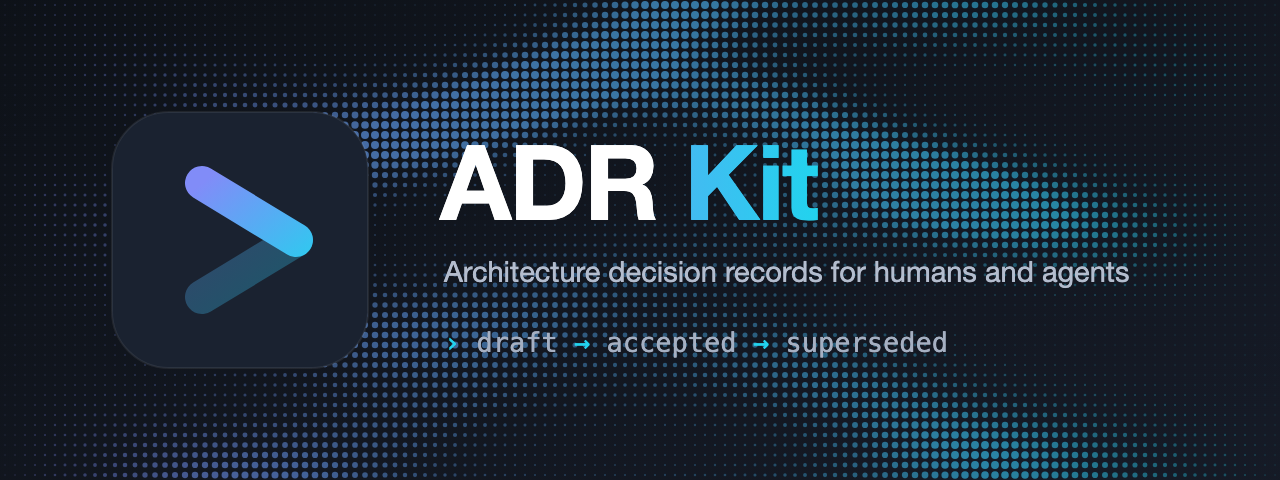
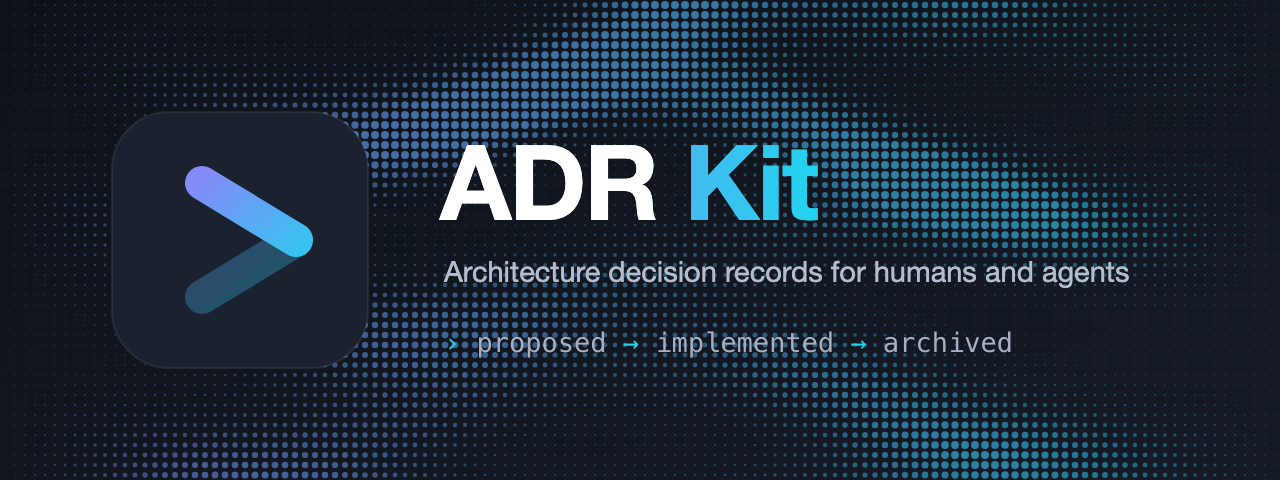
fix: repair co-design surfaces the four-folder rename left stale
The four-folder rename updated the core mirrors but left several coupled
surfaces stale:

- adr/config.yaml stamped installed-with 0.13.0, so every `adrkit list`
  printed an upgrade notice; regenerated with `adrkit update`, which also
  refreshed the gitignored .agents/ copy of the validate skill.
- openspec/config.yaml's archive guidance still said `adrkit decide`.
- adr/implemented/12 called active records "accepted"; 14 still showed the
  old adr/decisions/ path.
- the site advertised 10 workflow skills (now 11).
- the README and social banners rendered "draft -> accepted -> superseded";
  the SVG source and the derived PNG and og images now show the four-folder
  lifecycle, patched in place so the surrounding art stays byte-identical.

Adds regression gates: the site stats must equal the workflow count, the two
site UI languages must define the same keys, and the banner SVGs must show
the four-folder strip. Also drops the stale decide/accept names from tests.

Changed region(s): [[0.375, 0.6875, 0.8125, 0.75]]

diff --git a/test/supersede.test.ts b/test/supersede.test.ts
@@ -22,8 +22,8 @@ function makeRepo(): string {
   return dir;
 }
 
-/** propose → fill → accept，返回 slug。两个来源默认 human，agent 分支显式传入。 */
-function acceptDecision(
+/** propose → fill → implement，返回 slug。两个来源默认 human，agent 分支显式传入。 */
+function implementDecision(
   root: string,
   title: string,
   decidedBy: 'human' | 'agent' = 'human',
@@ -74,8 +74,8 @@ afterEach(() => {
 describe('supersedeCommand', () => {
   it('rewrites the front matter and archives the old record', () => {
     const root = makeRepo();
-    acceptDecision(root, 'Use SQLite');
-    acceptDecision(root, 'Use Postgres');
+    implementDecision(root, 'Use SQLite');
+    implementDecision(root, 'Use Postgres');
 
     const message = supersedeCommand('1', '2', root);
     expect(message).toMatch(/superseded adr\/implemented\/1-.+ by adr\/implemented\/2-.+/);
@@ -97,8 +97,8 @@ describe('supersedeCommand', () => {
 
   it('counts archived records separately in status', () => {
     const root = makeRepo();
-    acceptDecision(root, 'Use SQLite');
-    acceptDecision(root, 'Use Postgres');
+    implementDecision(root, 'Use SQLite');
+    implementDecision(root, 'Use Postgres');
     supersedeCommand('1', '2', root);
 
     const output = statusCommand(root).output;
@@ -108,8 +108,8 @@ describe('supersedeCommand', () => {
 
   it('annotates superseded records in the text listing', () => {
     const root = makeRepo();
-    acceptDecision(root, 'Use SQLite');
-    acceptDecision(root, 'Use Postgres');
+    implementDecision(root, 'Use SQLite');
+    implementDecision(root, 'Use Postgres');
     supersedeCommand('1', '2', root);
 
     expect(listCommand(root)).toContain('[superseded by 2]');
@@ -117,36 +117,36 @@ describe('supersedeCommand', () => {
 
   it('refuses to supersede a proposal', () => {
     const root = makeRepo();
-    acceptDecision(root, 'Use Postgres');
+    implementDecision(root, 'Use Postgres');
     proposeCommand('Use SQLite', root);
     expect(() => supersedeCommand('use-sqlite', '1', root)).toThrow('must be an implemented decision');
   });
 
   it('refuses to supersede with a missing decision', () => {
     const root = makeRepo();
-    acceptDecision(root, 'Use SQLite');
+    implementDecision(root, 'Use SQLite');
     expect(() => supersedeCommand('1', '9999', root)).toThrow('no ADR matches');
   });
 
   it('refuses self-supersede', () => {
     const root = makeRepo();
-    acceptDecision(root, 'Use SQLite');
+    implementDecision(root, 'Use SQLite');
     expect(() => supersedeCommand('1', '1', root)).toThrow('cannot supersede itself');
   });
 
   it('refuses to supersede an already-superseded decision', () => {
     const root = makeRepo();
-    acceptDecision(root, 'Use SQLite');
-    acceptDecision(root, 'Use Postgres');
+    implementDecision(root, 'Use SQLite');
+    implementDecision(root, 'Use Postgres');
     supersedeCommand('1', '2', root);
     expect(() => supersedeCommand('1', '2', root)).toThrow('already superseded by 2');
   });
 
   it('refuses superseding with an already-superseded decision', () => {
     const root = makeRepo();
-    acceptDecision(root, 'Use SQLite');
-    acceptDecision(root, 'Use Postgres');
-    acceptDecision(root, 'Use Spanner');
+    implementDecision(root, 'Use SQLite');
+    implementDecision(root, 'Use Postgres');
+    implementDecision(root, 'Use Spanner');
     supersedeCommand('2', '3', root);
     expect(() => supersedeCommand('1', '2', root)).toThrow('must be an implemented decision');
   });
@@ -199,8 +199,8 @@ Some risk.
 
   it('keeps tags when a decision is superseded', () => {
     const root = makeRepo();
-    acceptDecision(root, 'Use SQLite');
-    acceptDecision(root, 'Use Postgres');
+    implementDecision(root, 'Use SQLite');
+    implementDecision(root, 'Use Postgres');
     const path = join(root, 'adr', 'implemented', '1-use-sqlite.md');
     writeFileSync(path, readFileSync(path, 'utf8').replace(/^(created:.*)$/m, '$1\ntags: [storage]'));
     supersedeCommand('1', '2', root);
@@ -242,12 +242,12 @@ Some risk.
 
   it('records the declaration made at promotion, not the draft', () => {
     const root = makeRepo();
-    acceptDecision(root, 'Use SQLite');
+    implementDecision(root, 'Use SQLite');
     expect(readFileSync(join(root, 'adr', 'implemented', '1-use-sqlite.md'), 'utf8')).toContain(
       'decided-by: human',
     );
 
-    acceptDecision(root, 'Use Postgres', 'agent');
+    implementDecision(root, 'Use Postgres', 'agent');
     expect(readFileSync(join(root, 'adr', 'implemented', '2-use-postgres.md'), 'utf8')).toContain(
       'decided-by: agent',
     );
@@ -275,8 +275,8 @@ Some risk.
 
   it('preserves declared origins across supersede', () => {
     const root = makeRepo();
-    acceptDecision(root, 'Use SQLite');
-    acceptDecision(root, 'Use Postgres', 'agent');
+    implementDecision(root, 'Use SQLite');
+    implementDecision(root, 'Use Postgres', 'agent');
     supersedeCommand('1', '2', root);
 
     const frontMatter = (file: string): string => {
@@ -296,7 +296,7 @@ Some risk.
 describe('validate superseded references', () => {
   it('flags a dangling superseded-by reference', () => {
     const root = makeRepo();
-    acceptDecision(root, 'Use SQLite');
+    implementDecision(root, 'Use SQLite');
     const path = join(root, 'adr', 'implemented', '1-use-sqlite.md');
     const content = readFileSync(path, 'utf8');
     writeFileSync(path, content.replace('status: implemented', 'status: superseded\nsuperseded-by: 9999'));
@@ -308,9 +308,9 @@ describe('validate superseded references', () => {
 
   it('allows successive replacements without rewriting ancestors', () => {
     const root = makeRepo();
-    acceptDecision(root, 'Use SQLite');
-    acceptDecision(root, 'Use Postgres');
-    acceptDecision(root, 'Use Spanner');
+    implementDecision(root, 'Use SQLite');
+    implementDecision(root, 'Use Postgres');
+    implementDecision(root, 'Use Spanner');
     supersedeCommand('1', '2', root);
     const ancestor = join(root, 'adr', 'archived', '1-use-sqlite.md');
     const before = readFileSync(ancestor, 'utf8');
@@ -326,8 +326,8 @@ describe('validate superseded references', () => {
 describe('supersede target and record integrity', () => {
   it('refuses when the retiring record has an unknown front matter key', () => {
     const root = makeRepo();
-    acceptDecision(root, 'Use SQLite');
-    acceptDecision(root, 'Use Postgres');
+    implementDecision(root, 'Use SQLite');
+    implementDecision(root, 'Use Postgres');
     const path = join(root, 'adr', 'implemented', '1-use-sqlite.md');
     const tampered = readFileSync(path, 'utf8').replace('---\n', '---\nunknown-key: keep-me\n');
     writeFileSync(path, tampered);
@@ -339,8 +339,8 @@ describe('supersede target and record integrity', () => {
 
   it('refuses a replacement whose status is not implemented', () => {
     const root = makeRepo();
-    acceptDecision(root, 'Use SQLite');
-    acceptDecision(root, 'Use Postgres');
+    implementDecision(root, 'Use SQLite');
+    implementDecision(root, 'Use Postgres');
     const path = join(root, 'adr', 'implemented', '2-use-postgres.md');
     writeFileSync(path, readFileSync(path, 'utf8').replace('status: implemented', 'status: proposed'));
 
@@ -349,8 +349,8 @@ describe('supersede target and record integrity', () => {
 
   it('preserves tags and provenance across the retirement', () => {
     const root = makeRepo();
-    acceptDecision(root, 'Use SQLite');
-    acceptDecision(root, 'Use Postgres');
+    implementDecision(root, 'Use SQLite');
+    implementDecision(root, 'Use Postgres');
     const path = join(root, 'adr', 'implemented', '1-use-sqlite.md');
     writeFileSync(
       path,

diff --git a/test/commands.test.ts b/test/commands.test.ts
@@ -40,7 +40,7 @@ function pendingDraftPath(root: string): string {
   return draftPath(root, draft.fileName);
 }
 
-/** Fill the sole pending draft with real content so `accept` can promote it. */
+/** Fill the sole pending draft with real content so `implement` can promote it. */
 function fillDraft(root: string): string {
   const file = pendingDraftPath(root);
   const content = `---
@@ -200,14 +200,14 @@ describe('the CLI requires an explicit declaration', () => {
     }
   }
 
-  it('refuses decide without --decided-by', () => {
+  it('refuses record without --decided-by', () => {
     const root = makeRepo();
     const { message, exitCode } = runMain(['record', 'Use SQLite'], root);
     expect(message).toContain('--decided-by is required');
     expect(exitCode).toBe(1);
   });
 
-  it('refuses accept without --decided-by', () => {
+  it('refuses implement without --decided-by', () => {
     const root = makeRepo();
     proposeCommand('Use SQLite', root);
     const { message, exitCode } = runMain(['implement', 'Use SQLite'], root);
@@ -249,14 +249,14 @@ describe('the CLI requires an explicit declaration', () => {
     expect(exitCode).toBe(1);
   });
 
-  it('refuses decide without --raised-by once --decided-by is given', () => {
+  it('refuses record without --raised-by once --decided-by is given', () => {
     const root = makeRepo();
     const { message, exitCode } = runMain(['record', 'Use SQLite', '--decided-by', 'human'], root);
     expect(message).toContain('--raised-by is required');
     expect(exitCode).toBe(1);
   });
 
-  it('refuses accept without --raised-by once --decided-by is given', () => {
+  it('refuses implement without --raised-by once --decided-by is given', () => {
     const root = makeRepo();
     proposeCommand('Use SQLite', root);
     const { message, exitCode } = runMain(['implement', 'Use SQLite', '--decided-by', 'human'], root);
@@ -272,7 +272,7 @@ describe('the CLI requires an explicit declaration', () => {
   });
 });
 
-describe('propose and accept', () => {
+describe('propose and implement', () => {
   it('requires removing a draft-supplied declaration before promotion', () => {
     const root = makeRepo();
     proposeCommand('Use SQLite', root);
@@ -525,7 +525,7 @@ Body.
   });
 });
 
-describe('decide and show', () => {
+describe('record and show', () => {
   it('creates an implemented decision directly', () => {
     const root = makeRepo();
     recordCommand('Use SQLite', root, 'human', 'human');

diff --git a/test/docs.test.ts b/test/docs.test.ts
@@ -2,6 +2,7 @@ import { readFileSync } from 'node:fs';
 import { fileURLToPath } from 'node:url';
 import { describe, expect, it } from 'vitest';
 import { COMMAND_OPTIONS, COMMANDS } from '../src/core/cli-options.js';
+import { WORKFLOWS } from '../src/core/tool-integrations.js';
 
 function read(relative: string): string {
   return readFileSync(fileURLToPath(new URL(`../${relative}`, import.meta.url)), 'utf8');
@@ -66,6 +67,37 @@ describe('agent-facing front door', () => {
       expect(COMMANDS as readonly string[]).toContain(match[1]);
     }
     expect(document).not.toContain('adr/.drafts/');
+  });
+
+  it('site stats count the installed workflow skills in both languages', () => {
+    const copy = read('site/src/i18n/ui.ts');
+    const values = [...copy.matchAll(/'stats\.2\.value': "(\d+)"/g)].map((match) => match[1]);
+    expect(values).toHaveLength(2);
+    for (const value of values) expect(value).toBe(String(WORKFLOWS.length));
+  });
+
+  it('site ui defines the same keys in both languages', () => {
+    const copy = read('site/src/i18n/ui.ts');
+    const block = (lang: string) => {
+      const start = copy.indexOf(`\n  ${lang}: {`);
+      const end = copy.indexOf('\n  },', start);
+      return copy.slice(start, end);
+    };
+    const keys = (text: string) => new Set([...text.matchAll(/^    '([^']+)':/gm)].map((match) => match[1]));
+    const en = keys(block('en'));
+    const zh = keys(block('zh'));
+    expect([...en].filter((key) => !zh.has(key))).toEqual([]);
+    expect([...zh].filter((key) => !en.has(key))).toEqual([]);
+  });
+
+  it('the README and social banners show the four-folder lifecycle', () => {
+    const oldStrip = 'draft <tspan fill="#22D3EE">&#8594;</tspan> accepted <tspan fill="#22D3EE">&#8594;</tspan> superseded';
+    const newStrip = 'proposed <tspan fill="#22D3EE">&#8594;</tspan> implemented <tspan fill="#22D3EE">&#8594;</tspan> archived';
+    for (const file of ['assets/readme-banner.svg', 'assets/social-preview.svg']) {
+      const svg = read(file);
+      expect(svg, file).toContain(newStrip);
+      expect(svg, file).not.toContain(oldStrip);
+    }
   });
 
   it('site copy agrees in both languages about the four folders and targets', () => {

diff --git a/site/src/i18n/ui.ts b/site/src/i18n/ui.ts
@@ -33,7 +33,7 @@ const ui = {
 
     'stats.1.value': '1',
     'stats.1.label': 'directory in your repo',
-    'stats.2.value': "10",
+    'stats.2.value': "11",
     'stats.2.label': 'workflow skills',
     'stats.3.value': '0',
     'stats.3.label': 'dependencies added to your repo',
@@ -110,7 +110,7 @@ const ui = {
 
     'stats.1.value': '1',
     'stats.1.label': '只占用一个目录',
-    'stats.2.value': "10",
+    'stats.2.value': "11",
     'stats.2.label': '个工作流技能',
     'stats.3.value': '0',
     'stats.3.label': '给你仓库新增的依赖',

diff --git a/test/regressions.test.ts b/test/regressions.test.ts
@@ -29,7 +29,7 @@ afterEach(() => {
 });
 
 describe('regressions', () => {
-  it('shows implemented implemented without duplicating the number', () => {
+  it('shows an implemented record without duplicating the number', () => {
     const root = makeRepo();
     writeFileSync(
       join(folderPath(root, 'implemented'), '1-use-sqlite.md'),

diff --git a/test/validate.test.ts b/test/validate.test.ts
@@ -164,7 +164,7 @@ Body.
     expect(result.output).toContain('duplicate decision number');
   });
 
-  it('rejects proposal-era headings in implemented implemented', () => {
+  it('rejects proposal-era headings in implemented records', () => {
     const root = makeRepo();
     const content = `---
 status: implemented

diff --git a/adr/implemented/14-resolve-decision-map-record-links-against-the-output-path.md b/adr/implemented/14-resolve-decision-map-record-links-against-the-output-path.md
@@ -12,8 +12,9 @@ tags: [visualization, decision-graph, delivery]
 ## Problem
 
 Each node of the decision map links to its record with a repository-relative
-path (`adr/decisions/8-….md`), which the browser resolves from the HTML file's
-own directory. Nothing had settled where that file goes: `adrkit graph --html`
+path (`adr/implemented/8-….md`; `adr/decisions/…` before ADR 18), which the
+browser resolves from the HTML file's own directory. Nothing had settled where
+that file goes: `adrkit graph --html`
 emitted the map to stdout, the visualize skill told the agent to write it to the
 user's location or a temporary directory, and the two disagreed. Delivered to a
 temporary directory, the map drew correctly while every card led to a

diff --git a/adr/implemented/12-open-requested-adr-visualizations-in-the-browser-by-default.md b/adr/implemented/12-open-requested-adr-visualizations-in-the-browser-by-default.md
@@ -16,8 +16,8 @@ ADR 8 and ADR 9 made file-link delivery the default and required a separate
 request to open a browser. After receiving the all-decision map, the maintainer
 explicitly asked that future visualization requests proactively open it. This
 amends only ADR 8 and ADR 9's delivery policy; their rendering and routing
-decisions remain accepted and are retained below. The older records stay
-accepted because this is a partial amendment, not replacement of those views.
+decisions remain implemented and are retained below. The older records stay
+implemented because this is a partial amendment, not replacement of those views.
 
 ## Decision
 
